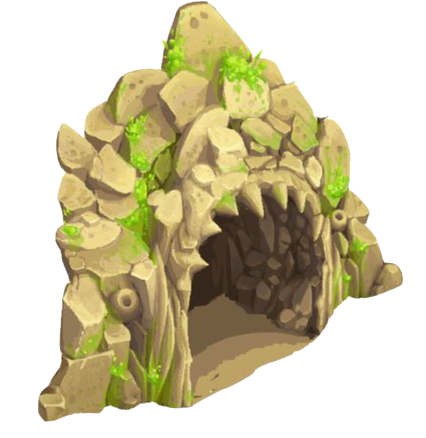
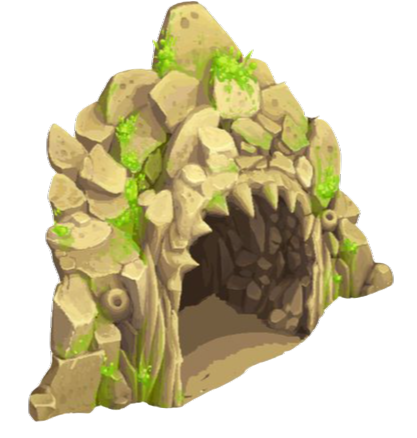
Added and Adjustment
Added a snooze.wav sound and I cropped the cave and grassy rock assets
a little to be smaller.

diff --git a/js/botPlayground.js b/js/botPlayground.js
@@ -74,6 +74,7 @@ function preload() {
     game.load.audio('doozer', 'assets/doos.wav');
     game.load.audio('chomp', 'assets/chwl.wav');
     game.load.audio('attack 1', 'assets/attacksound1.mp3');
+    game.load.audio('snooze', 'assets/snooze.mp3');
 
     // Load speech bubble assets
     loadSpeechBubbleAssets();
@@ -133,7 +134,7 @@ function create() {
 
     // web has been seperated from entities so that bots can walk over it
     game.add.sprite(2755, 0, 'web');
-    entities.push(new Entity(400, 400, 'oakTree'));
+    entities.push(new Entity(400, 600, 'oakTree'));
     entities.push(new Entity(1000, 2000, 'oakTree'));
     entities.push(new Entity(2900, 130, 'cocoon'));
     entities.push(new Entity(600, 2198, 'singlerock'));
@@ -146,8 +147,8 @@ function create() {
     entities.push(new Entity(10, 2930, 'Treasure'));
     entities.push(new Entity(2700, 2700, 'Treehouse'));
     entities.push(new Entity(2700, 2800, 'DeerCrossingSign'));
-    entities.push(new Entity(50, 300, 'grassyrock'));
-    entities.push(new Entity(-100, -100, 'cave', game));
+    entities.push(new Entity(80, 300, 'grassyrock'));
+    entities.push(new Entity(-80, -100, 'cave', game));
     entities.push(new Entity(1000, 1350, 'princessCastle'));
     entities.push(new Entity(600, 1200, 'carousel'));
 
